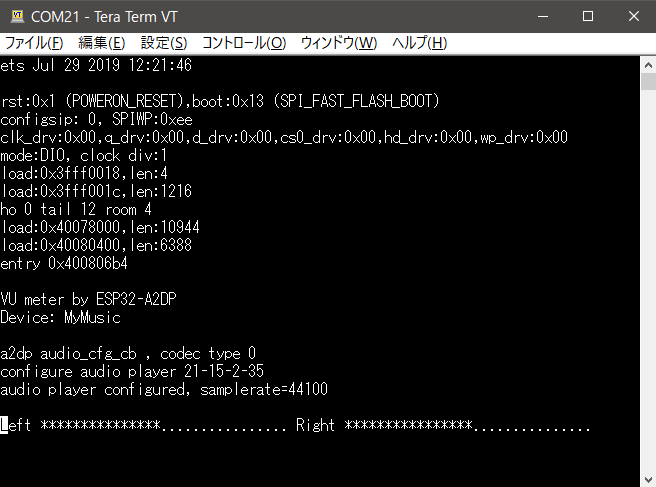
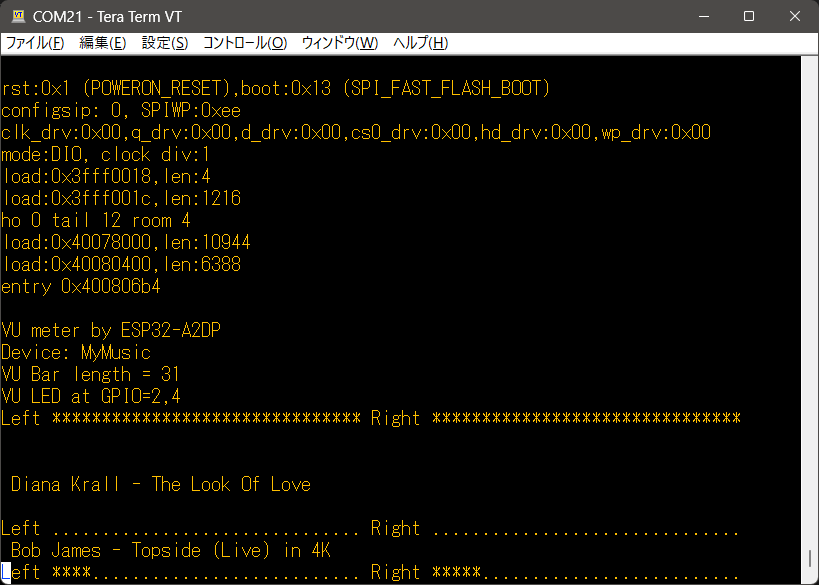
comment corrected

diff --git a/README.md b/README.md
@@ -16,6 +16,8 @@ Max volume for BT audio output seems the best for ESP32-A2DP-VUmeter.
 GPIO2 (Left) and GPIO4 (Right) can be used for VU LEDs , each pull downed by appropriate current limiting resisters.
 Noise is added to these VU LEDs.
 
+Meta information is printed on tera term. (need to git clone the latest ESP32-A2DP )
+
 Output example 
 <pre>
 Ex. 
